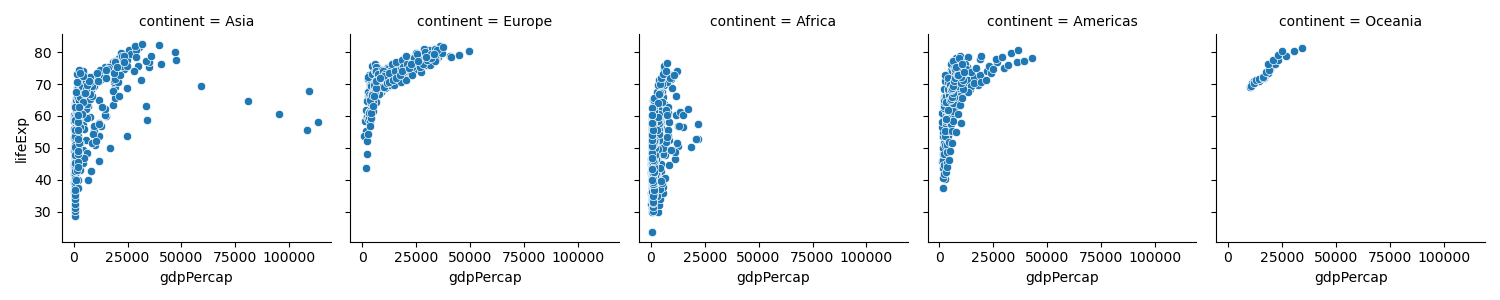
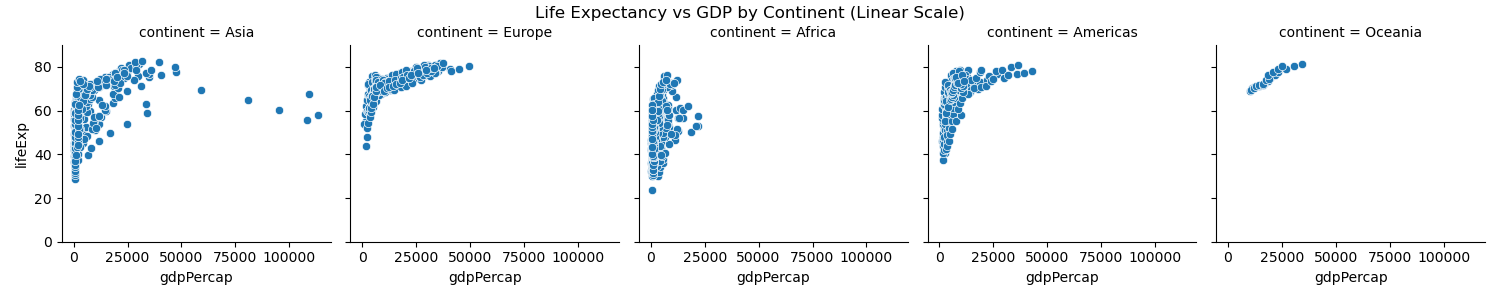
finished all questions

diff --git a/src/q3.py b/src/q3.py
@@ -5,15 +5,21 @@ import matplotlib.pyplot as plt
 
 from gapmindercode import gapminderdf, Africadf, Asiadf, Europedf, Americasdf, Oceaniadf
 
+# Visualizing life expectancy vs GDP per capita (linear scale)
 fig = plt.figure()
 graph = sns.FacetGrid(gapminderdf, col='continent')
 graph.map(sns.scatterplot,'gdpPercap', 'lifeExp')
-
+graph.fig.subplots_adjust(top=0.85)
+graph.fig.suptitle("Life Expectancy vs GDP by Continent (Linear Scale)")
+graph.set(ylim=(0,90))
 plt.savefig("figs/LE_vs_GDPpercapita_linear_scale.png")
 
+# Visualizing life expectancy vs GDP per capita (log scale)
 fig = plt.figure()
 graph = sns.FacetGrid(gapminderdf, col='continent')
 graph.map(sns.scatterplot,'gdpPercap', 'lifeExp')
 plt.xscale("log")
-
+graph.fig.subplots_adjust(top=0.85)
+graph.fig.suptitle("Life Expectancy vs GDP by Continent (Log Scale)")
+graph.set(ylim=(0,90))
 plt.savefig("figs/LE_vs_GDPpercapita_log_scale.png")

diff --git a/src/q4.py b/src/q4.py
@@ -6,11 +6,12 @@ import matplotlib.pyplot as plt
 
 from gapmindercode import gapminderdf, Africadf, Asiadf, Europedf, Americasdf, Oceaniadf
 
+# Probability density of life expectancy for dataset, with gaussian and KDE
 fig, ax = plt.subplots(1,1)
-#plt.figure(figsize=(11,6))
 xdata = gapminderdf['lifeExp']
 x = np.linspace(min(xdata), max(xdata), 100)
 ax.plot(x,norm.pdf(x,np.mean(xdata),np.std(xdata)), c="red")
-sns.histplot(data=gapminderdf, x="lifeExp", ax=ax, kde=True)
+sns.histplot(data=gapminderdf, x="lifeExp", ax=ax, stat="density", kde=True)
+fig.subplots_adjust(top=0.85)
+fig.suptitle("Probability Density Function of Life Expectancy")
 plt.savefig("figs/PDF_of_LE.png")
-#plt.show()

diff --git a/src/q1.py b/src/q1.py
@@ -5,10 +5,13 @@ import matplotlib.pyplot as plt
 
 from gapmindercode import gapminderdf, Africadf, Asiadf, Europedf, Americasdf, Oceaniadf
 
-fig = plt.figure()
+# Visualizing life expectancy distibution by continent
 graph = sns.FacetGrid(gapminderdf, col='continent')
 graph.map(sns.histplot, 'lifeExp')
-#sns.histplot(data=gapminderdf, x='continent', y='lifeExp')
-plt.ylim(0,90)
-#plt.title("Distribution of Life Expectancy by Continent")
+
+# Making space for figure title, and setting axis parameters
+graph.fig.subplots_adjust(top=0.8)
+graph.fig.suptitle("Distribution of Life Expectancy by Continent")
+graph.set(ylim=(0,90))
+
 plt.savefig("figs/distribution_LE_by_continent.png")

diff --git a/src/q2.py b/src/q2.py
@@ -5,7 +5,13 @@ import matplotlib.pyplot as plt
 
 from gapmindercode import gapminderdf, Africadf, Asiadf, Europedf, Americasdf, Oceaniadf
 
+# Visualizing time evolution of life expectancy by continent
 graph = sns.FacetGrid(gapminderdf, col='continent')
 graph.map(sns.boxplot, "year", "lifeExp")
-plt.ylim(0,90)
+
+#Making space for figure title, and setting axis parameters
+graph.fig.subplots_adjust(top=0.85)
+graph.fig.suptitle("Time Evolution of Life Expectancy by Continent")
+graph.set(ylim=(0,90))
+
 plt.savefig("figs/time_evolution_LE_by_continent.png")

diff --git a/src/gapmindercode.py b/src/gapmindercode.py
@@ -12,10 +12,6 @@ for item in continents:
    globals()[str] = gapminderdf[gapminderdf['continent']==item]
    #setattr(self,name,value)
 
-# Africadf = gapminderdf[gapminderdf['continent']=='Africa']
-# Europedf = gapminderdf[gapminderdf['continent']=='Europe']
-# Asiadf = gapminderdf[gapminderdf['continent']=='Asia']
-# Americasdf = gapminderdf[gapminderdf['continent']=='Americas']
-# Oceaniadf = gapminderdf[gapminderdf['continent']=='Oceania']
+#print(np.unique(gapminderdf['year']))
 #print(gapminderdf.head())
 #print(Europedf.head())

diff --git a/README.md b/README.md
@@ -64,6 +64,12 @@ Put all the plots in one figure with a title.
 Look at the seaborn [FacetGrid API reference](https://seaborn.pydata.org/generated/seaborn.FacetGrid.html)
 for data-viz ideas.
 
+To do this, run `make q1`, which produces the following image:
+![](figs/distribution_LE_by_continent.png)
+All continents' life expectancies varied from around 40 years to around 80 years, except Oceania, for which all life expectancies were around 80 years.
+Oceania has the highest average life expectancy (in addition to the lowest variation), followed by Europe and the Americas. Life expectancies in Asia peaked around 70 years, just like Europe and the Americas, but there was a larger spread, i.e. more instances of lower life expectancies.
+Life expectancies were lowest on average in Africa, where they peaked at around 45 years.
+
 ## Question 2 -- time evolution of life expectancy by continent
 
 For each continent, use box-and-whisker plots to visualize the time evolution of life expectancy by 
@@ -73,11 +79,26 @@ As in Question 2, make sure your plots are labeled and easy to read, and put all
 Look at the seaborn [FacetGrid API reference](https://seaborn.pydata.org/generated/seaborn.FacetGrid.html)
 for ideas.
 
+To do this, run `make q2`, which produces the following image:
+![](figs/time_evolution_LE_by_continent.png)
+All continents' average life expectancies rose steadily from 1952 to 2007. 
+Oceania and Europe had the highest average life expectancies in 1952 (around 65 years), and both contintents experienced small but steady growth to around 75 years in 2007.
+Asia, the Americas had similar rises in life expectancy. Africa started with the lowest life expectancy, and experienced a slower rise than Asia and the Americas.
+
 ## Question 3 -- life expectancy vs GDP
 
 Use scatter plots to visualize the relationship between life expectancy and GDP per capita for each continent.
 Compare the use of linear and log scales for GDP. 
 Comment on the relationships that seem significant and any outliers you notice.
+
+To do this, run `make q3`, which produces the following images:
+![](figs/LE_vs_GDPpercapita_linear_scale.png)
+![](figs/LE_vs_GDPpercapita_log_scale.png)
+
+All continents' data suggests a positive correlation between GDP per capita and life expectancy. However, there is a significan number of outliers in Asia, where some instances of extremely high GDP per capita (highest in the world) came with average life expectancies, less than a large number of instances of lower GDP per capita.
+The data for Africa is least indicative among all continents of a positive correlation between GDP per capita and life expectancy. Notice that while there is a wide range of life expectancies, (25 years to 75 years), the GDP per capita is exclusively below $25,000.
+The data suggests that above a GDP per capita of $25,000, there is a slight rise in life expectancy for a rise in GDP per capita.
+The linear scale is a better visualization of the correlation between GDP per capita and life expectancy, while the log scale is a better visualization of the variation of GDP per capita among countries.
 
 ## Question 4 -- PDF of life expectancy
 
@@ -88,3 +109,8 @@ Comment on the relationships that seem significant and any outliers you notice.
 * Comment briefly on the result (i.e., explain the dominant features in the chart with a few sentences).
   * Make sure to use the results in previous questions to justify your interpretation.
 
+To do this, run `make q4`, which produces the following image:
+![](figs/PDF_of_LE.png)
+The distribution of life expectancis appears to be bimodal, with modes at approximately 45 years and approximately 70 years. There is a steady rise from 30 years to 45 years, and a slight dip up till a local minimum of around 60 years, before a sharp rise to the global maximum of around 70 years, followed by a steep fall to 80 years, whose probability is low and similar to 35 years.
+The first peak of around 45 years is due to the data for Africa, as well as the early data for Asia.
+The global peak of around 70 years is due primarily to data for the Americas, data for Europe and later time period data Asia.
